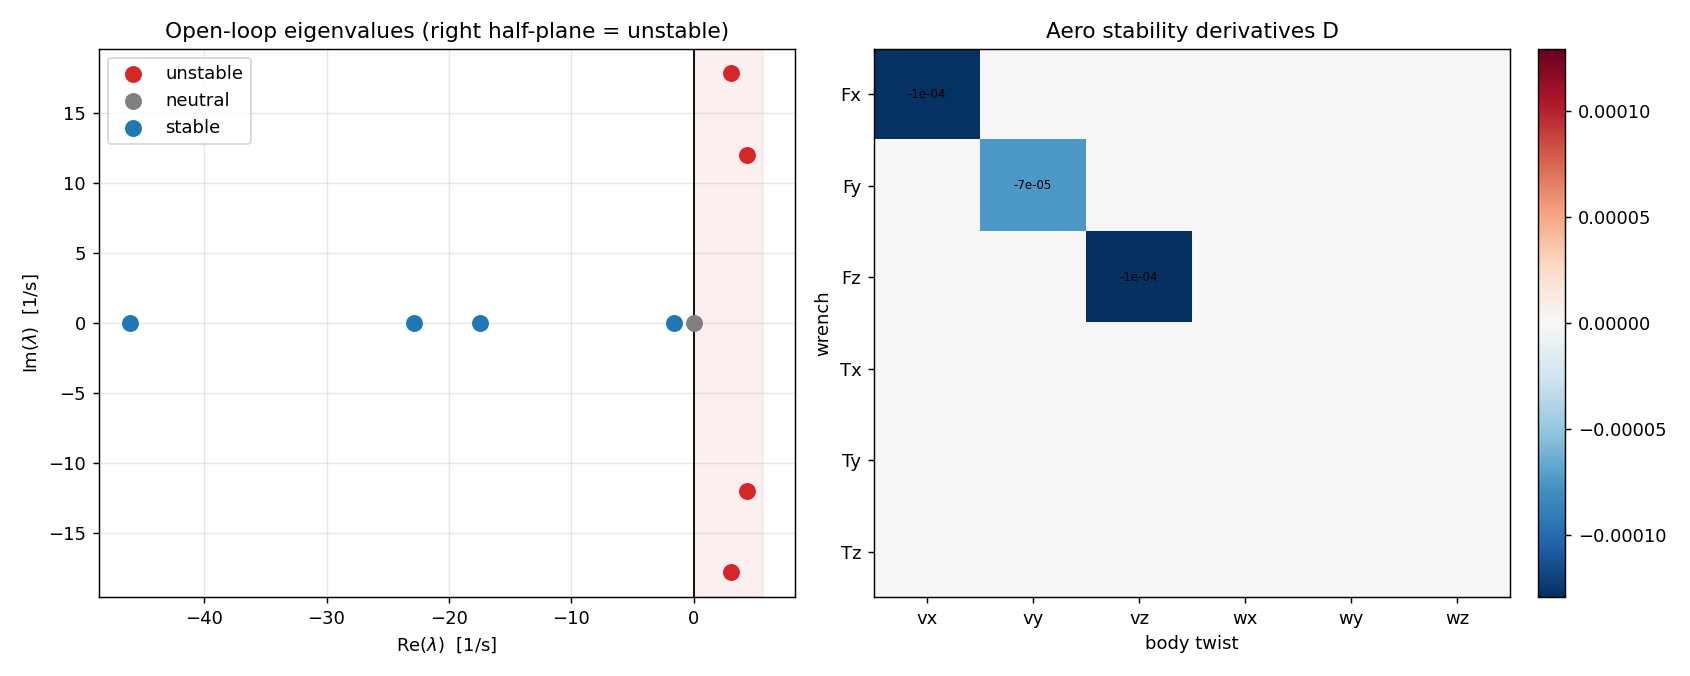
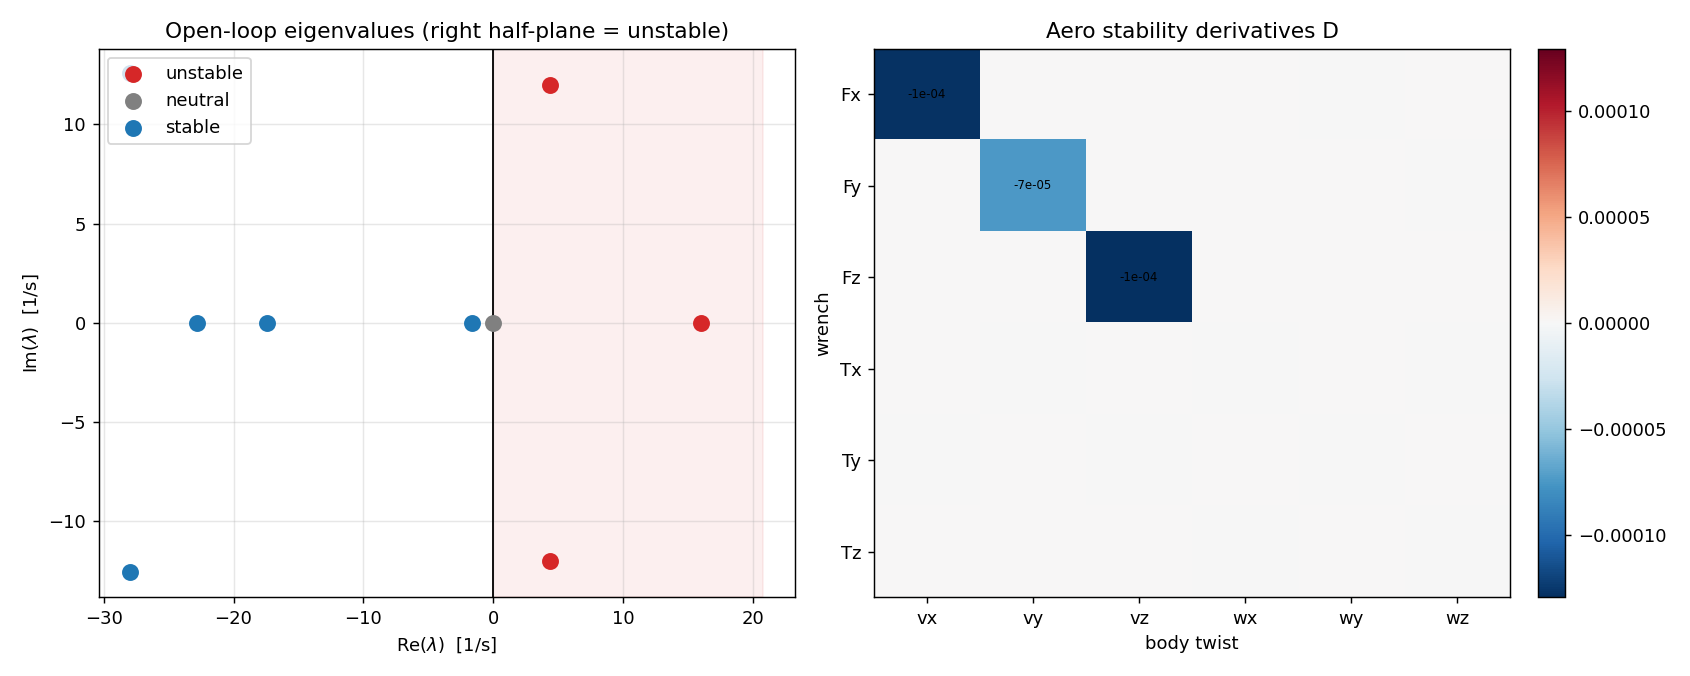
Refine open-loop dynamics and system ID

diff --git a/src/sysid.py b/src/sysid.py
@@ -92,5 +92,28 @@ def assemble_A(D, M, I):
     A[3:6, 0:6] = Iinv @ D[3:6, 0:6]        # w_dot from aero torque derivatives
     A[0, 7] += G                            # +pitch tilts trim thrust -> +ax
     A[1, 6] += G                            # +roll  tilts trim thrust -> +ay
-    A[6, 3] = 1.0; A[7, 4] = 1.0; A[8, 5] = 1.0   # roll/pitch/yaw_dot = wx/wy/wz
+    # attitude kinematics from d(up)/dt = omega x up: pitch_dot=+wy, roll_dot=-wx
+    A[6, 3] = -1.0; A[7, 4] = 1.0; A[8, 5] = 1.0   # roll/pitch/yaw_dot = -wx/+wy/+wz
     return A
+
+
+def control_derivatives(fly, kin, du=0.05):
+    """6x3 wrench-vs-control matrix Bw at the hover trim (columns: u_thrust,
+    u_roll, u_pitch), measured the same way as the stability derivatives."""
+    Bw = np.zeros((6, 3))
+    for j, knob in enumerate(("thrust", "roll", "pitch")):
+        kin.set_control(**{knob: +du}); wp = cycle_avg_wrench(fly, kin, np.zeros(6))
+        kin.set_control(**{knob: -du}); wm = cycle_avg_wrench(fly, kin, np.zeros(6))
+        Bw[:, j] = (wp - wm) / (2 * du)
+    kin.set_control()
+    return Bw
+
+
+def assemble_B(Bw, M, I):
+    """Map the control-wrench derivatives into state space (9x3), state order
+    [vx vy vz wx wy wz roll pitch yaw]."""
+    Iinv = np.linalg.inv(I)
+    B = np.zeros((9, 3))
+    B[0:3, :] = Bw[0:3, :] / M
+    B[3:6, :] = Iinv @ Bw[3:6, :]
+    return B

diff --git a/experiments/e10_open_loop_dynamics.py b/experiments/e10_open_loop_dynamics.py
@@ -7,11 +7,11 @@ trim and reading the cycle-averaged aero wrench (src/sysid). Assembling A from
 the aero stability derivatives + thrust-tilt (gravity) + attitude kinematics
 gives a 9-state linear model whose EIGENVALUES quantify the instability.
 
-Result: the hovering flyer has two mildly unstable oscillatory modes (a
-longitudinal/pitch and a lateral/roll mode), a stable heave mode, and a neutral
-yaw drift — the textbook hovering-insect picture. The instability is slow
-(doubling in ~0.15-0.2 s), consistent with the slow open-loop divergence in e08,
-and comfortably controllable. A and B feed the controller design next.
+Result: the hovering flyer has a fast lateral/roll divergence plus a slower
+longitudinal/pitch oscillation, a stable heave mode, and a neutral yaw drift —
+the textbook hovering-insect picture. The instability is still slow versus a
+wingbeat (fastest doubling ~40 ms), consistent with the slow open-loop divergence
+in e08, and controllable. A and B feed the controller design next.
 """
 import sys
 from pathlib import Path
@@ -72,9 +72,11 @@ for e in sorted(ev, key=lambda z: -z.real):
     modes.append((e.real, e.imag))
 n_unst = int(np.sum(ev.real > 1e-3))
 print("-" * 64)
-print(f" -> {n_unst} unstable eigenvalues (2 oscillatory pairs: longitudinal + lateral)")
-print(f"    slowest doubling ~ {np.log(2)/max(ev.real):.3f} s -> MILD, slow, controllable")
-print(f"    CHECK: matches e08 (pitch>10deg only at ~78 ms), NOT a <20 ms tumble")
+print(f" -> {n_unst} unstable modes: a fast lateral/roll divergence + a slower")
+print(f"    longitudinal/pitch oscillation (the rest stable; yaw neutral)")
+print(f"    fastest doubling ~ {np.log(2)/max(ev.real)*1e3:.0f} ms (lateral) -> slow vs a wingbeat; controllable")
+print(f"    CHECK: consistent with e08 — pitch crosses 10deg first only because it gets a head")
+print(f"           start from the +{w0[4]*1e9:.0f} uNmm pitch-bias torque; neither mode is a <20 ms tumble")
 print("=" * 64)
 
 # ---- save data ----